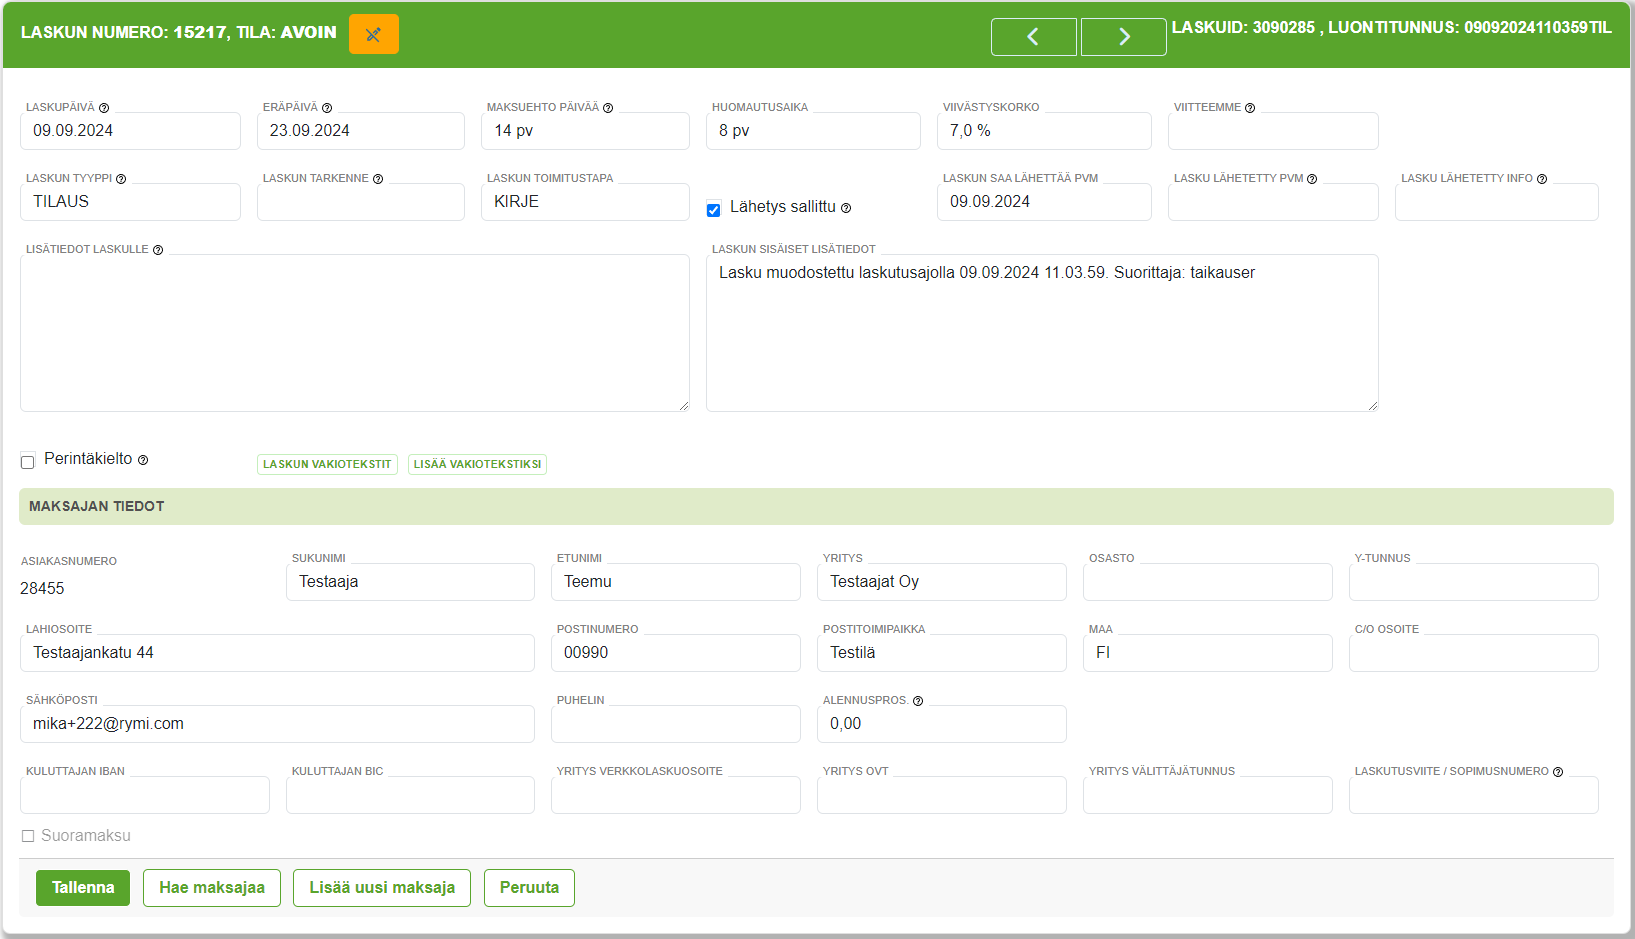
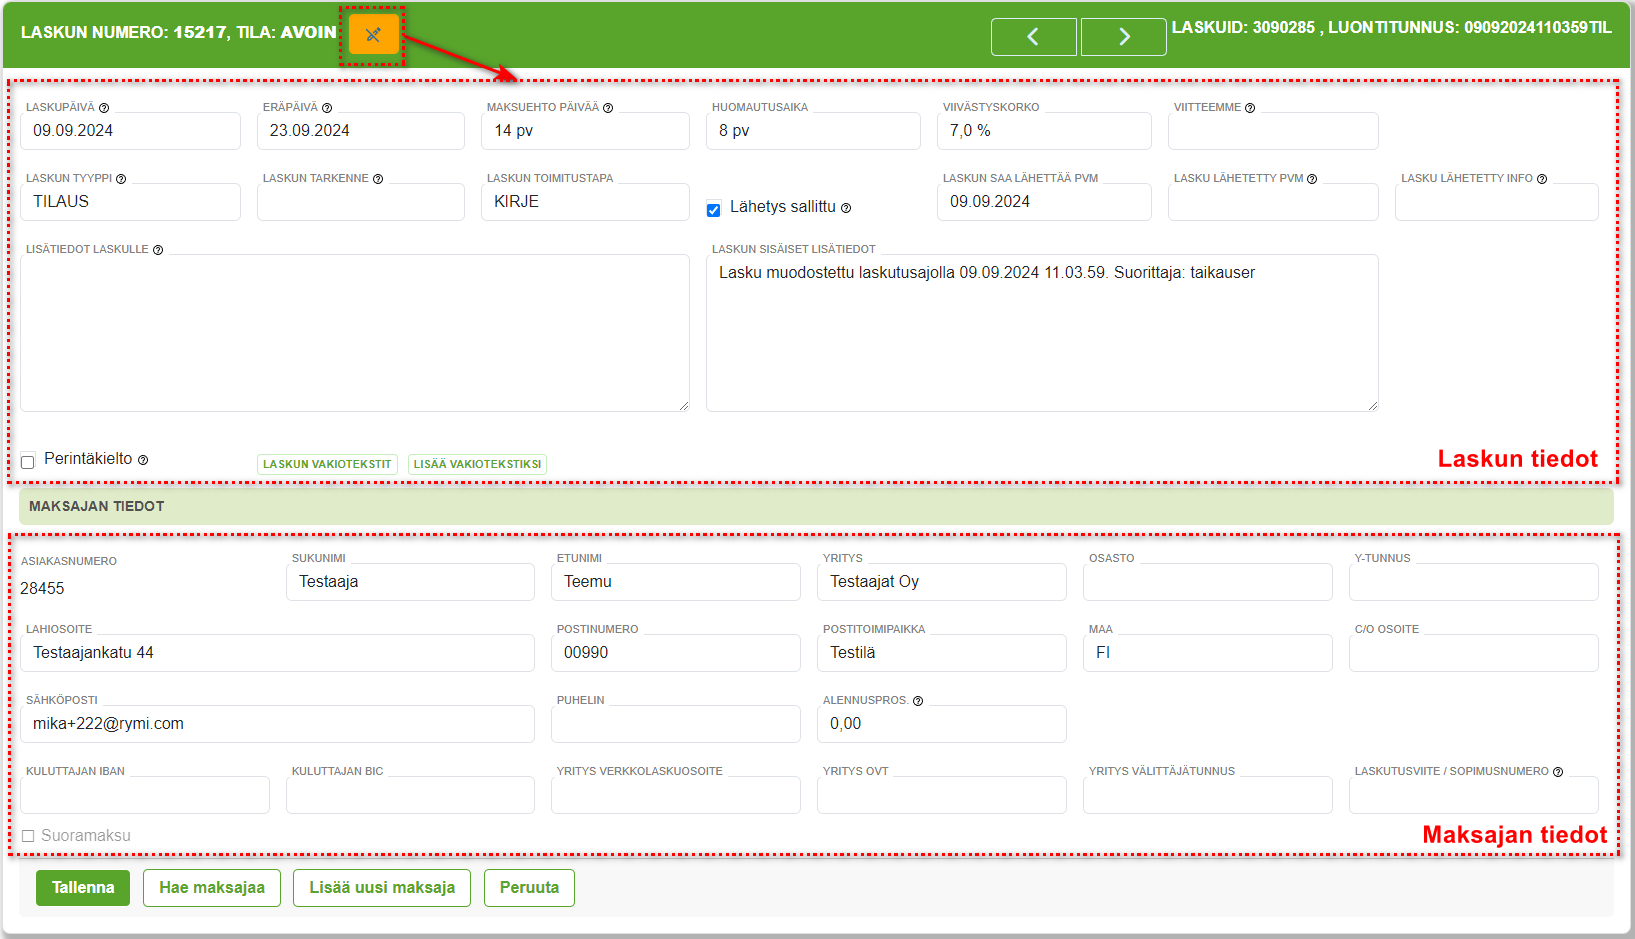
laskun tiedot

Changed region(s): [[0.0, 0.0309, 0.9982, 0.525], [0.0, 0.5559, 0.9982, 0.9265], [0.2183, 0.0, 0.2495, 0.0309]]

diff --git a/docs/ohjeet/yleiset_ominaisuudet/lasku.md b/docs/ohjeet/yleiset_ominaisuudet/lasku.md
@@ -23,20 +23,25 @@ Näet laskun muodon (lasku/hyvityslasku) ja tilan (avoin, erääntynyt, hyvitett
 
 Valitun yksittäisen laskun tietoja pääsee muokkaamaan, joko **Kynä**-painikkeesta
 
-1. Laskun tietoja
+1. **Laskun tietoja**
  
- Voit muuttaa:
- - eräpäivää
- - maksuehtoa
- - huomautusaikaa
- - viivästyskorkoa
- - laskun tyyppiä
- - tarkennetta
- - toimitustapaa
- - laskun lähetyspäivämäärää
- - lisätietoja
+Voit muuttaa:
+- laskun päivää
+- eräpäivää
+- maksuehtoa
+- huomautusaikaa
+- viivästyskorkoa
+- viitettä
+- laskun tyyppiä
+- tarkennetta
+- toimitustapaa
+- laskun lähetyspäivämäärää
+- lisätietoja
+    - ulkoiset sisätiedot tulostuvat laskulle
+    - sisäiset lisätiedot näkyvät vain järjestelmässä, eivät asiakkaalle
+- asettaa laskun perintäkieltoon
 
-2. Maksajan tietoja
+2. **Maksajan tietoja**
 
 ![laskun tiedot](/img/ohjeet/laskut2.png)
 
